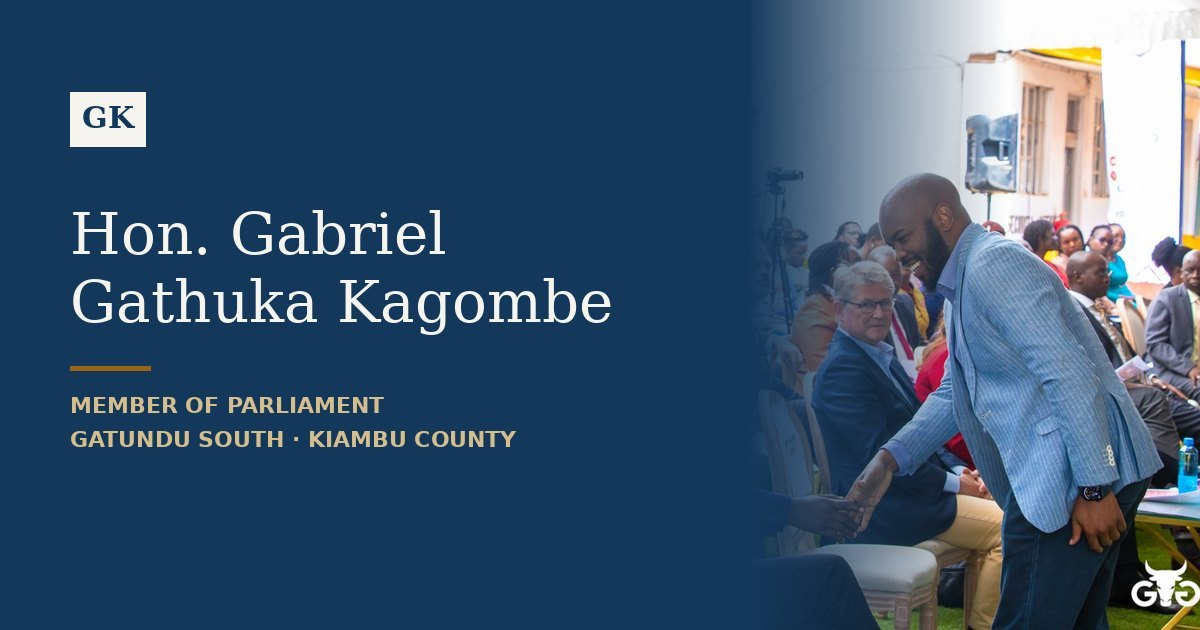
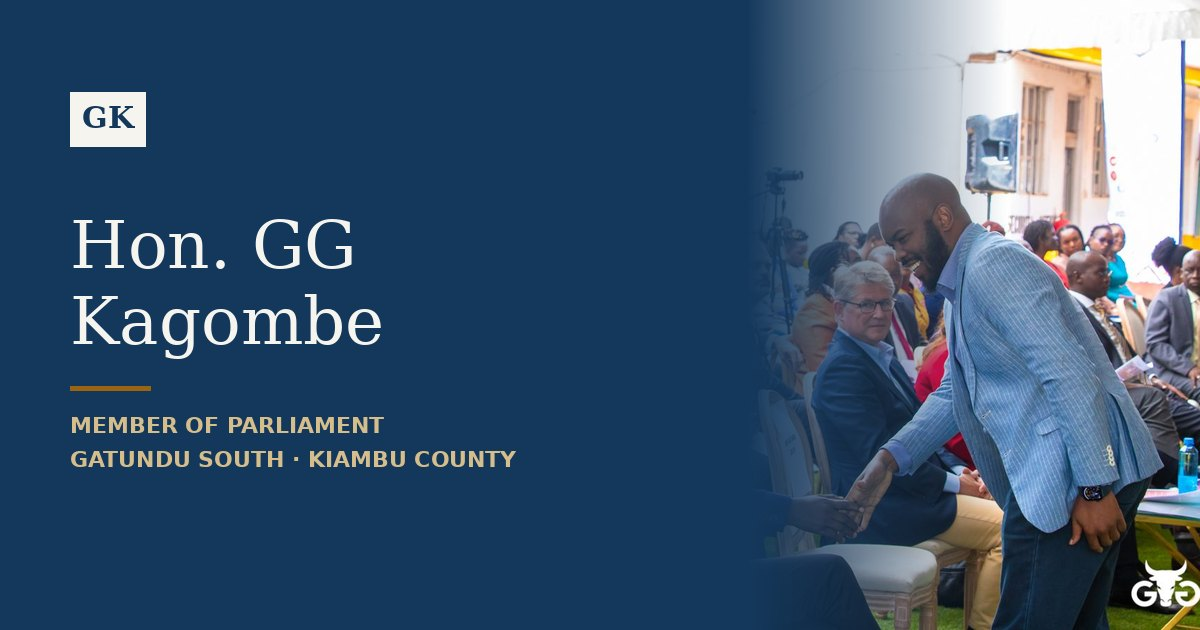
Use "Hon. GG Kagombe" instead of "Gabriel Gathuka"
Header and footer logo, home heading, biography, page titles, dashboard
title, share image and structured data now say GG Kagombe. The full name
stays only as a hidden search alternate, and the Parliament record name
and profile web addresses are unchanged.

Claude-Session: https://claude.ai/code/session_01EzkfPk62E8D5UEpXEQ4ufS

Changed region(s): [[0.0617, 0.3317, 0.5242, 0.754]]

diff --git a/src/lib/seo.js b/src/lib/seo.js
@@ -8,11 +8,11 @@
  */
 import { siteConfig } from '../../site.config.js'
 
-export const SITE_NAME = 'Hon. Gabriel Gathuka Kagombe'
+export const SITE_NAME = 'Hon. GG Kagombe'
 const SHORT = 'Hon. Kagombe, MP Gatundu South'
 export const DEFAULT_IMAGE = '/og-default.jpg'
 const DEFAULT_DESC =
-  'Official website of Hon. Gabriel Gathuka Kagombe, Member of Parliament for Gatundu South, Kiambu County: profile, parliamentary record, NG-CDF projects, events, news and contact.'
+  'Official website of Hon. GG Kagombe, Member of Parliament for Gatundu South, Kiambu County: profile, parliamentary record, NG-CDF projects, events, news and contact.'
 
 export const siteUrl = () => String(siteConfig.siteUrl || '').replace(/\/+$/, '')
 
@@ -41,9 +41,10 @@ function person(content, image) {
   return {
     '@type': 'Person',
     '@id': absolute('/#person'),
-    name: 'Gabriel Gathuka Kagombe',
+    name: 'GG Kagombe',
     honorificPrefix: 'Hon.',
-    alternateName: ['GG Kagombe', 'Gabriel Kagombe', profile.officialName].filter(Boolean),
+    // Other spellings people search for; not shown on the page.
+    alternateName: ['Gabriel Kagombe', 'Gabriel Gathuka Kagombe', profile.officialName].filter(Boolean),
     jobTitle: profile.title || 'Member of Parliament for Gatundu South',
     description: clip(profile.intro || DEFAULT_DESC, 300),
     memberOf: { '@type': 'GovernmentOrganization', name: 'National Assembly of Kenya', url: 'https://www.parliament.go.ke' },
@@ -64,7 +65,7 @@ const crumbs = (items) => ({
 const STATIC = {
   '/about': (c) => ({
     title: `About | ${SHORT}`,
-    heading: 'About Hon. Gabriel Gathuka Kagombe',
+    heading: 'About Hon. GG Kagombe',
     description: clip(c.profile?.bio?.[0] || DEFAULT_DESC),
     // Positions are shown on this page too.
   }),

diff --git a/src/data/content.js b/src/data/content.js
@@ -10,7 +10,7 @@ export const PROGRESS = ['Completed', 'Ongoing', 'Planned']
 
 export const defaults = {
   profile: {
-    name: 'Hon. Gabriel Gathuka Kagombe',
+    name: 'Hon. GG Kagombe',
     officialName: 'Kagombe Gabriel Gathuka',
     title: 'Member of Parliament for Gatundu South',
     party: 'Democracy for Citizens Party (DCP)',
@@ -19,7 +19,7 @@ export const defaults = {
     intro:
       'A University of Nairobi graduate in economics and communication, a tea-sector director and a local board chairman, now serving Gatundu South in the National Assembly on the Agriculture and Public Accounts committees.',
     bio: [
-      'Hon. Gabriel Gathuka Kagombe is the Member of Parliament for Gatundu South in Kiambu County. He was elected in August 2022 with 17,815 votes and serves in the 13th Parliament of Kenya. In August 2026 he left the United Democratic Alliance, on whose ticket he was elected, and joined the Democracy for Citizens Party.',
+      'Hon. GG Kagombe is the Member of Parliament for Gatundu South in Kiambu County. He was elected in August 2022 with 17,815 votes and serves in the 13th Parliament of Kenya. In August 2026 he left the United Democratic Alliance, on whose ticket he was elected, and joined the Democracy for Citizens Party.',
       'He holds a Bachelor of Arts in Economics and Communication from the University of Nairobi. Outside Parliament he chairs the board of Highlands Power Company, is a board member of the Kiambu County Biashara Fund, chairs the Board of Management of Mutunguru Primary School and is a director of Theta Tea Factory and Ndarugu Tea Factory. His interests are public service, public administration and strategic leadership and development.',
     ],
     vision: '',

diff --git a/index.html b/index.html
@@ -5,8 +5,8 @@
     <link rel="icon" type="image/svg+xml" href="/favicon.svg" />
     <meta name="viewport" content="width=device-width, initial-scale=1.0" />
     <!--seo: replaced for every page at build time by scripts/prerender.mjs-->
-    <title>Hon. Gabriel Gathuka Kagombe | MP for Gatundu South</title>
-    <meta name="description" content="Official website of Hon. Gabriel Gathuka Kagombe, Member of Parliament for Gatundu South, Kiambu County: profile, parliamentary record, NG-CDF projects, events, news and contact." />
+    <title>Hon. GG Kagombe | MP for Gatundu South</title>
+    <meta name="description" content="Official website of Hon. GG Kagombe, Member of Parliament for Gatundu South, Kiambu County: profile, parliamentary record, NG-CDF projects, events, news and contact." />
     <meta property="og:type" content="website" />
     <meta property="og:image" content="/og-default.jpg" />
     <!--/seo-->

diff --git a/src/components/Footer.jsx b/src/components/Footer.jsx
@@ -12,9 +12,9 @@ export default function Footer() {
           <div className="brand brand-light">
             <span className="monogram">GK</span>
             <span className="brand-name">
-              Hon. Gabriel
+              Hon. GG
               <br />
-              Gathuka Kagombe
+              Kagombe
             </span>
           </div>
           <p className="footer-blurb">Member of Parliament for Gatundu South, 13th Parliament of Kenya.</p>
@@ -37,7 +37,7 @@ export default function Footer() {
       </div>
       <div className="footer-bar">
         <div className="wrap footer-bar-in">
-          <span>© Hon. Gabriel Gathuka Kagombe, MP for Gatundu South</span>
+          <span>© Hon. GG Kagombe, MP for Gatundu South</span>
           <span>Built by SpenceTec and Logistics Limited</span>
         </div>
       </div>

diff --git a/src/components/Navbar.jsx b/src/components/Navbar.jsx
@@ -22,12 +22,12 @@ export default function Navbar() {
   return (
     <header className={`site-header ${scrolled ? 'is-scrolled' : ''} ${open ? 'is-open' : ''}`}>
       <div className="wrap site-header-in">
-        <Link to="/" className="brand" onClick={close} aria-label="Hon. Gabriel Gathuka Kagombe, home">
+        <Link to="/" className="brand" onClick={close} aria-label="Hon. GG Kagombe, home">
           <span className="monogram">GK</span>
           <span className="brand-name">
-            Hon. Gabriel
+            Hon. GG
             <br />
-            Gathuka Kagombe
+            Kagombe
           </span>
         </Link>
         <nav className="nav" id="main-nav" aria-label="Main">

diff --git a/src/pages/Home.jsx b/src/pages/Home.jsx
@@ -25,7 +25,7 @@ export default function Home() {
         <div>
           <span className="eyebrow rise" style={{ '--d': '0ms' }}>Member of Parliament · Gatundu South</span>
           <h1 className="rise" style={{ '--d': '100ms' }}>
-            Hon. Gabriel <em>Gathuka</em> Kagombe
+            Hon. <em>GG</em> Kagombe
           </h1>
           <p className="lead rise" style={{ '--d': '220ms' }}>{profile.intro}</p>
           <div className="hero-actions rise" style={{ '--d': '340ms' }}>

diff --git a/src/pages/admin/AdminApp.jsx b/src/pages/admin/AdminApp.jsx
@@ -89,7 +89,7 @@ export default function AdminApp() {
 
   useEffect(() => {
     if (!firebaseReady) return
-    document.title = 'Dashboard | Hon. Gabriel Gathuka Kagombe'
+    document.title = 'Dashboard | Hon. GG Kagombe'
     let robots = document.head.querySelector('meta[name="robots"]')
     if (!robots) document.head.appendChild((robots = Object.assign(document.createElement('meta'), { name: 'robots' })))
     robots.content = 'noindex, nofollow'

diff --git a/SEO.md b/SEO.md
@@ -1,4 +1,4 @@
-# SEO tracker: Hon. Gabriel Gathuka Kagombe website
+# SEO tracker: Hon. GG Kagombe website
 
 Living record of the site's search setup. Updated whenever pages, content or settings change.
 Last updated: 2 November 2026.
@@ -57,6 +57,8 @@ Work searches: Gatundu South NG-CDF · Gatundu South projects · Gatundu South b
 6. Keep adding events and projects with photos and real dates; each one is a new page that can rank for local searches.
 
 ## Change log
+
+- **2 Nov 2026**: Site name changed to “Hon. GG Kagombe” (titles, share image, structured data `name`). “Gabriel Gathuka Kagombe” kept only as a hidden `alternateName` so searches for the full name still find the site.
 
 - **2 Nov 2026**: Positions moved into the About page (section `#positions`); the separate Positions page and its search entry were removed, and `/positions` redirects to `/about#positions`. 43 pages, no warnings.
 

diff --git a/README.md b/README.md
@@ -1,4 +1,4 @@
-# Hon. Gabriel Gathuka Kagombe: official website
+# Hon. GG Kagombe: official website
 
 Multi-page React + Vite site for the Member of Parliament for Gatundu South, with a Firebase admin dashboard at `/admin`.
 
